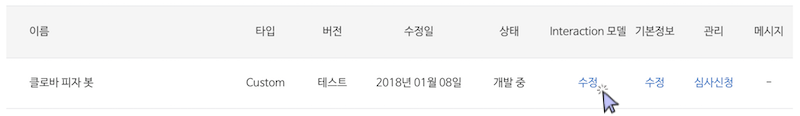
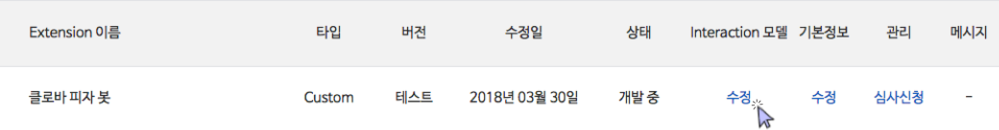
Apply UI changes to image files

diff --git a/ko/README.md b/ko/README.md
@@ -28,6 +28,7 @@
           <li>[CIC] 사용자가 설정한 임의의 명령을 실행할 수 있는 <a href="/CIC/References/CICInterface/PlaybackController.html#CustomCommandIssued">CustomCommandIssued</a> 이벤트 메시지를 <a href="/CIC/References/CICInterface/PlaybackController.html#CustomCommandIssued">PlaybackController</a> 네임스페이스에 추가</li>
           <li>[CEK] Clova Home API에 CloseConfirmation 외 47건의 <a href="/CEK/References/ClovaHomeInterface/Control_Interfaces.html">Control API</a>와 약 10종의 <a href="/CEK/References/ClovaHomeInterface/Shared_Objects.html">공유 객체</a> 추가</li>
           <li>[CEK] Clova Home API <a href="/CEK/References/ClovaHomeInterface/Shared_Objects.html#ApplianceInfoObject">지원 기기</a> 30종 추가</li>
+          <li>[Dev. Console] Clova developer console의 일부 UI 업데이트 적용</li>
         </ul>
       </td>
     </tr>

diff --git a/ko/DevConsole/Guides/CEK/Register_Extension.md b/ko/DevConsole/Guides/CEK/Register_Extension.md
@@ -48,7 +48,7 @@ Extension을 등록하는 과정에서 가장 먼저 할 일은 등록할 extens
 
 Extension 기본 정보 입력이 끝나면 생성된 Extension의 정보를 수정하는 화면으로 전환됩니다. 이때부터 페이지 하단에 있는 **{{ book.DevConsole.cek_save }}** 버튼을 클릭하여 중간 내용을 언제든지 저장할 수 있으며, 다음과 같이 CEK 메뉴에서 등록된 Extension 목록을 확인할 수 있습니다.
 
-![](/DevConsole/Resources/Images/DevConsole-Extension_List_after_Creation.png)
+![](/DevConsole/Resources/Images/DevConsole-Extension_List_After_Creation.png)
 
 ## 서버 연동 설정 {#SetServerConnection}
 

diff --git a/en/DevConsole/Guides/CEK/Register_Extension.md b/en/DevConsole/Guides/CEK/Register_Extension.md
@@ -48,7 +48,7 @@ Follow the steps below to register the extension:
 
 When you complete entering the basic extension information, you are directed to the screen to edit this information. From this point, you can press the **{{ book.DevConsole.cek_save }}** button at the bottom of the page at any time to save the changed details. You can also find the list of registered extensions in the CEK menu as shown below.
 
-![](/DevConsole/Resources/Images/DevConsole-Extension_List_after_Creation.png)
+![](/DevConsole/Resources/Images/DevConsole-Extension_List_After_Creation.png)
 
 ## Setting up a server connection {#SetServerConnection}
 
